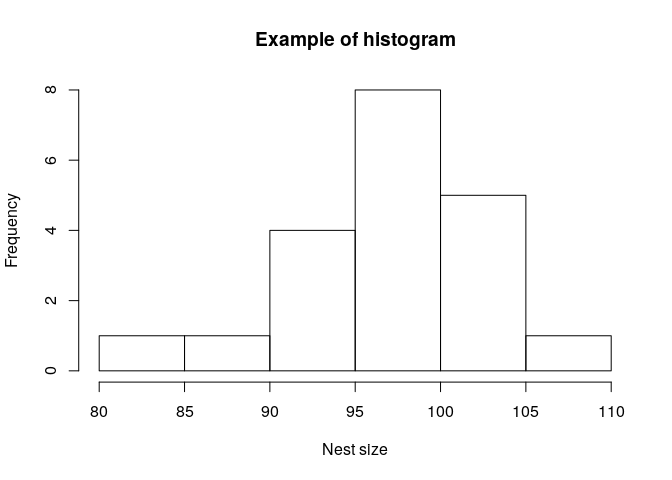
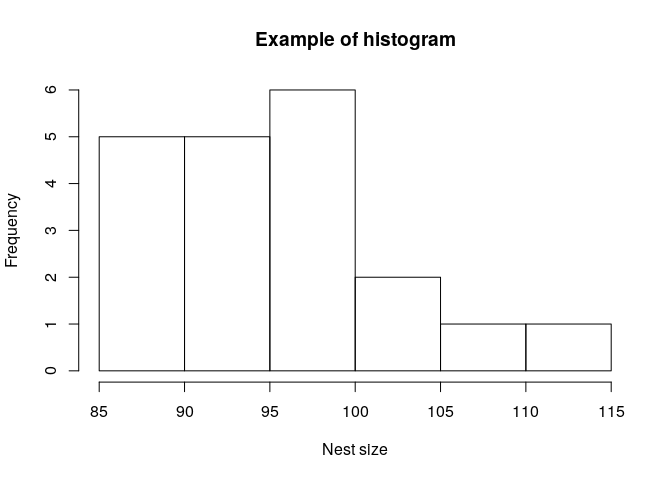
Add files via upload

diff --git a/RMT_part3.md b/RMT_part3.md
@@ -1,7 +1,7 @@
 R Mini Tutorial: R for spatial modelling
 ================
 luiscartor
-May 29, 2019
+June 3, 2019
 
 #### Go to [part 1](https://luiscartor.github.io/RMT_part1) of the tutorial.
 
@@ -71,7 +71,7 @@ first_raster
     ## crs        : +proj=longlat +datum=WGS84 +ellps=WGS84 +towgs84=0,0,0 
     ## source     : memory
     ## names      : layer 
-    ## values     : 0.03829368, 0.9905562  (min, max)
+    ## values     : 0.0001895148, 0.9980985  (min, max)
 
 ### 3.1.3 Download, read, and write raster files
 
@@ -438,16 +438,16 @@ df
 ```
 
     ##    ID    precip
-    ## 1   1 24.560280
-    ## 2   2 37.362397
-    ## 3   3 65.337683
-    ## 4   4 64.871412
-    ## 5   5  6.037816
-    ## 6   6 39.604437
-    ## 7   7 97.482510
-    ## 8   8 51.678298
-    ## 9   9 88.128526
-    ## 10 10 37.860181
+    ## 1   1 72.068660
+    ## 2   2  8.737482
+    ## 3   3 22.752216
+    ## 4   4 56.740672
+    ## 5   5 72.897111
+    ## 6   6 52.099820
+    ## 7   7 57.444315
+    ## 8   8 24.494930
+    ## 9   9 74.450572
+    ## 10 10 89.294353
 
 And now we add the precipitation values to the spatial points we created before:
 
@@ -462,8 +462,8 @@ ptsdf
     ## crs         : +proj=longlat +datum=WGS84 +ellps=WGS84 +towgs84=0,0,0 
     ## variables   : 2
     ## names       : ID,           precip 
-    ## min values  :  1, 6.03781626559794 
-    ## max values  : 10, 97.4825097247958
+    ## min values  :  1, 8.73748199082911 
+    ## max values  : 10, 89.2943528247997
 
 See what is inside this `SpatialPointsDataFrame`:
 
@@ -474,16 +474,16 @@ showDefault(ptsdf)
     ## An object of class "SpatialPointsDataFrame"
     ## Slot "data":
     ##    ID    precip
-    ## 1   1 24.560280
-    ## 2   2 37.362397
-    ## 3   3 65.337683
-    ## 4   4 64.871412
-    ## 5   5  6.037816
-    ## 6   6 39.604437
-    ## 7   7 97.482510
-    ## 8   8 51.678298
-    ## 9   9 88.128526
-    ## 10 10 37.860181
+    ## 1   1 72.068660
+    ## 2   2  8.737482
+    ## 3   3 22.752216
+    ## 4   4 56.740672
+    ## 5   5 72.897111
+    ## 6   6 52.099820
+    ## 7   7 57.444315
+    ## 8   8 24.494930
+    ## 9   9 74.450572
+    ## 10 10 89.294353
     ## 
     ## Slot "coords.nrs":
     ## numeric(0)
@@ -690,9 +690,9 @@ d
 ```
 
     ##   attr1 attr2 newatt
-    ## 1     1     7      x
-    ## 2     2     6      d
-    ## 3     3     5      c
+    ## 1     1     7      l
+    ## 2     2     6      i
+    ## 3     3     5      q
 
 Let's plot only one of the polygons:
 

diff --git a/RMT_part2.md b/RMT_part2.md
@@ -1,7 +1,7 @@
 R Mini Tutorial Part 2: R Environment, reading/writting, and basic executions
 ================
 luiscartor
-May 29, 2019
+June 3, 2019
 
 #### Go to [part 1](https://luiscartor.github.io/RMT_part1) of the tutorial.
 
@@ -468,7 +468,7 @@ summary(normvec)
 ```
 
     ##    Min. 1st Qu.  Median    Mean 3rd Qu.    Max. 
-    ## -2.3871 -0.4519  0.1165  0.1220  0.7746  2.8589
+    ## -2.8367 -0.8642 -0.2413 -0.1603  0.4542  2.3482
 
 ### 2.4.2 Linear regression
 

diff --git a/RMT_part1.md b/RMT_part1.md
@@ -1,7 +1,7 @@
 R Mini Tutorial Part 1: Getting started and data types
 ================
 luiscartor
-May 29, 2019
+June 3, 2019
 
 #### Go to [part 2](https://luiscartor.github.io/RMT_part2) of the tutorial.
 
